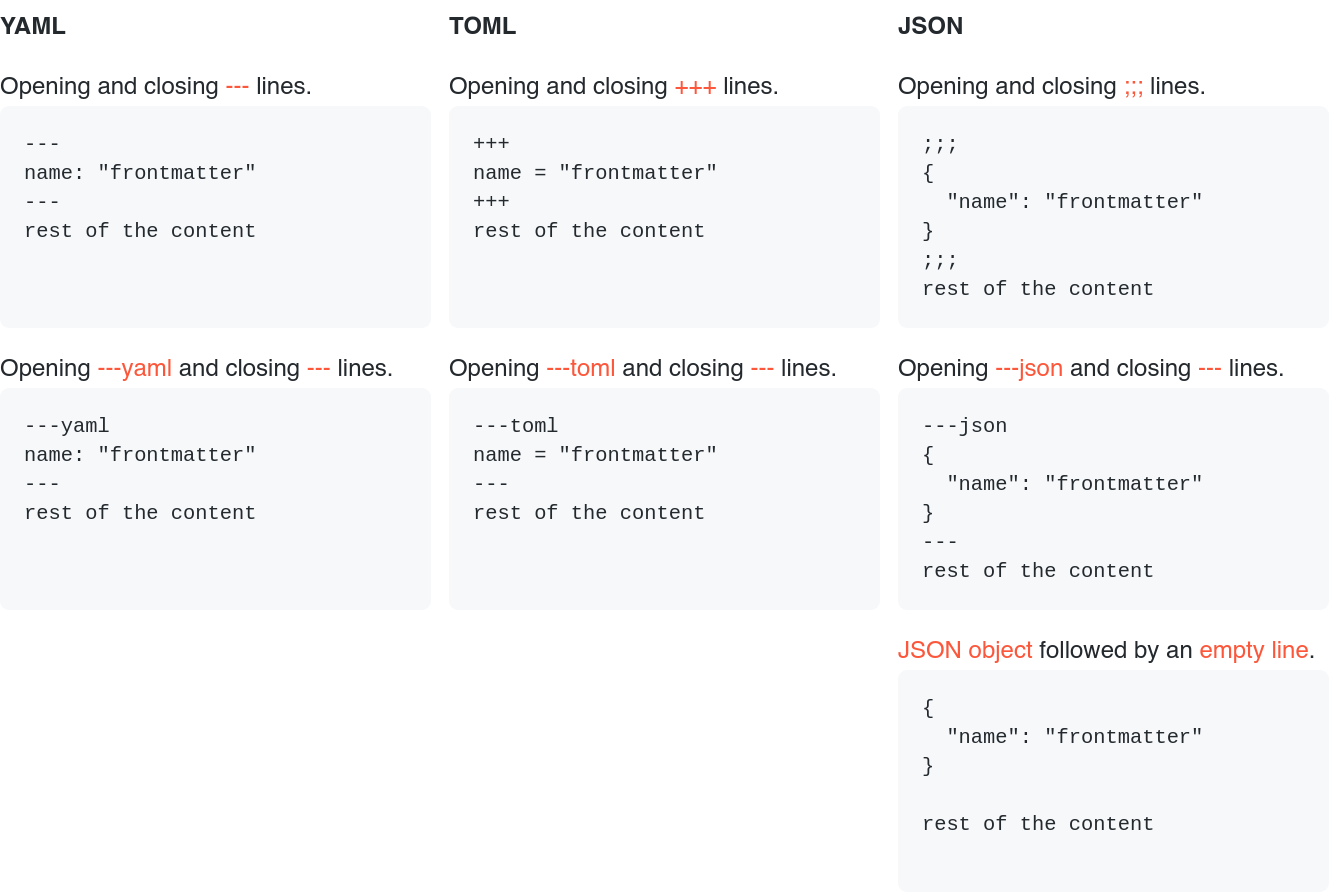
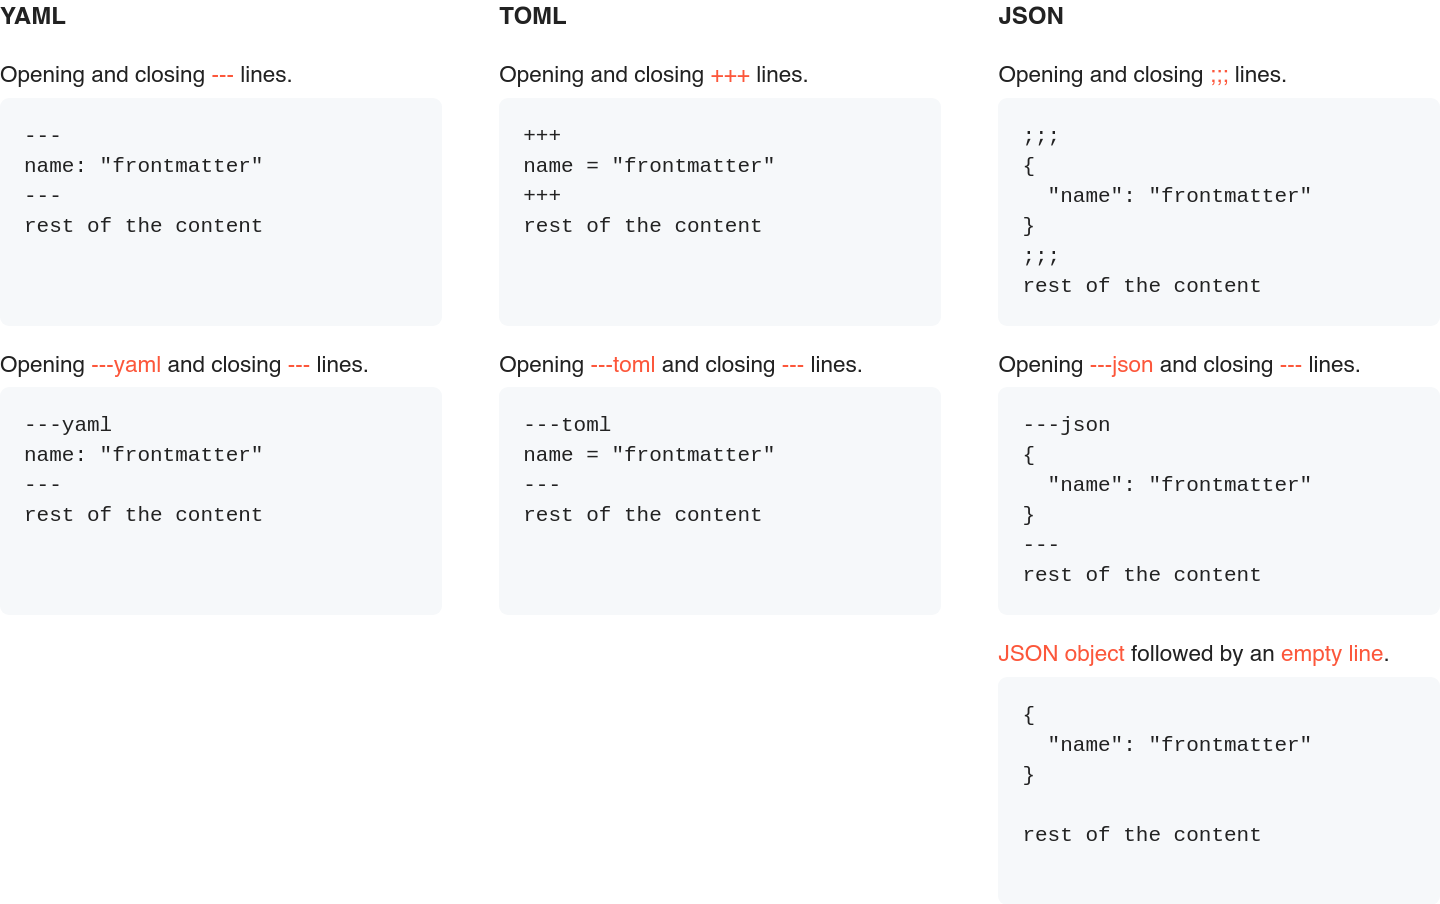
Add frontmatter formats HTML template

diff --git a/assets/projects/frontmatter/formats.html b/assets/projects/frontmatter/formats.html
@@ -1,0 +1,108 @@
+<html>
+  <head>
+      <link rel="stylesheet" href="https://cdnjs.cloudflare.com/ajax/libs/skeleton/2.0.4/skeleton.min.css">
+     <style>
+      body {
+        font-family: -apple-system,BlinkMacSystemFont,Segoe UI,Helvetica,Arial,sans-serif,Apple Color Emoji,Segoe UI Emoji;
+        font-size: 16px;
+        line-height: 1.5;
+      }
+
+      pre {
+        padding: 16px;
+        overflow: auto;
+        font-size: 14px;
+        line-height: 1.45;
+        background-color: #f6f8fa;
+        border-radius: 6px;
+        font-family: SFMono-Regular,Consolas,Liberation Mono,Menlo,monospace;
+        margin: 0;
+        word-break: normal;
+        height: 120px;
+      }
+
+      b, strong {
+        font-weight: 600;
+      }
+
+      p {
+        margin-top: 0;
+        margin-bottom: 12px;
+      }
+
+      div.desc {
+        margin-top: 16px;
+        margin-bottom: 3px;
+        font-size: 15px;
+      }
+
+      span.delim {
+        color: #FC573B;
+      }
+     </style>
+  </head>
+  <body>
+    <div class="container">
+      <div class="row">
+        <div class="four columns">
+          <p><strong>YAML</strong></p>
+
+          <div class="desc">Opening and closing <span class="delim">---</span> lines.</div>
+          <pre>---
+name: "frontmatter"
+---
+rest of the content</pre>
+
+          <div class="desc">Opening <span class="delim">---yaml</span> and closing <span class="delim">---</span> lines.</div>
+          <pre>---yaml
+name: "frontmatter"
+---
+rest of the content</pre>
+        </div>
+
+        <div class="four columns">
+          <p><strong>TOML</strong></p>
+
+          <div class="desc">Opening and closing <span class="delim">+++</span> lines.</div>
+          <pre>+++
+name = "frontmatter"
++++
+rest of the content</pre>
+
+          <div class="desc">Opening <span class="delim">---toml</span> and closing <span class="delim">---</span> lines.</div>
+          <pre>---toml
+name = "frontmatter"
+---
+rest of the content</pre>
+        </div>
+
+        <div class="four columns">
+          <p><strong>JSON</strong></p>
+
+          <div class="desc">Opening and closing <span class="delim">;;;</span> lines.</div>
+          <pre>;;;
+{
+  "name": "frontmatter"
+}
+;;;
+rest of the content</pre>
+
+          <div class="desc">Opening <span class="delim">---json</span> and closing <span class="delim">---</span> lines.</div>
+          <pre>---json
+{
+  "name": "frontmatter"
+}
+---
+rest of the content</pre>
+
+          <div class="desc"><span class="delim">JSON object</span> followed by an <span class="delim">empty line</span>.</div>
+          <pre>{
+  "name": "frontmatter"
+}
+
+rest of the content</pre>
+        </div>
+      </div>
+    </div>
+  </body>
+</html>
